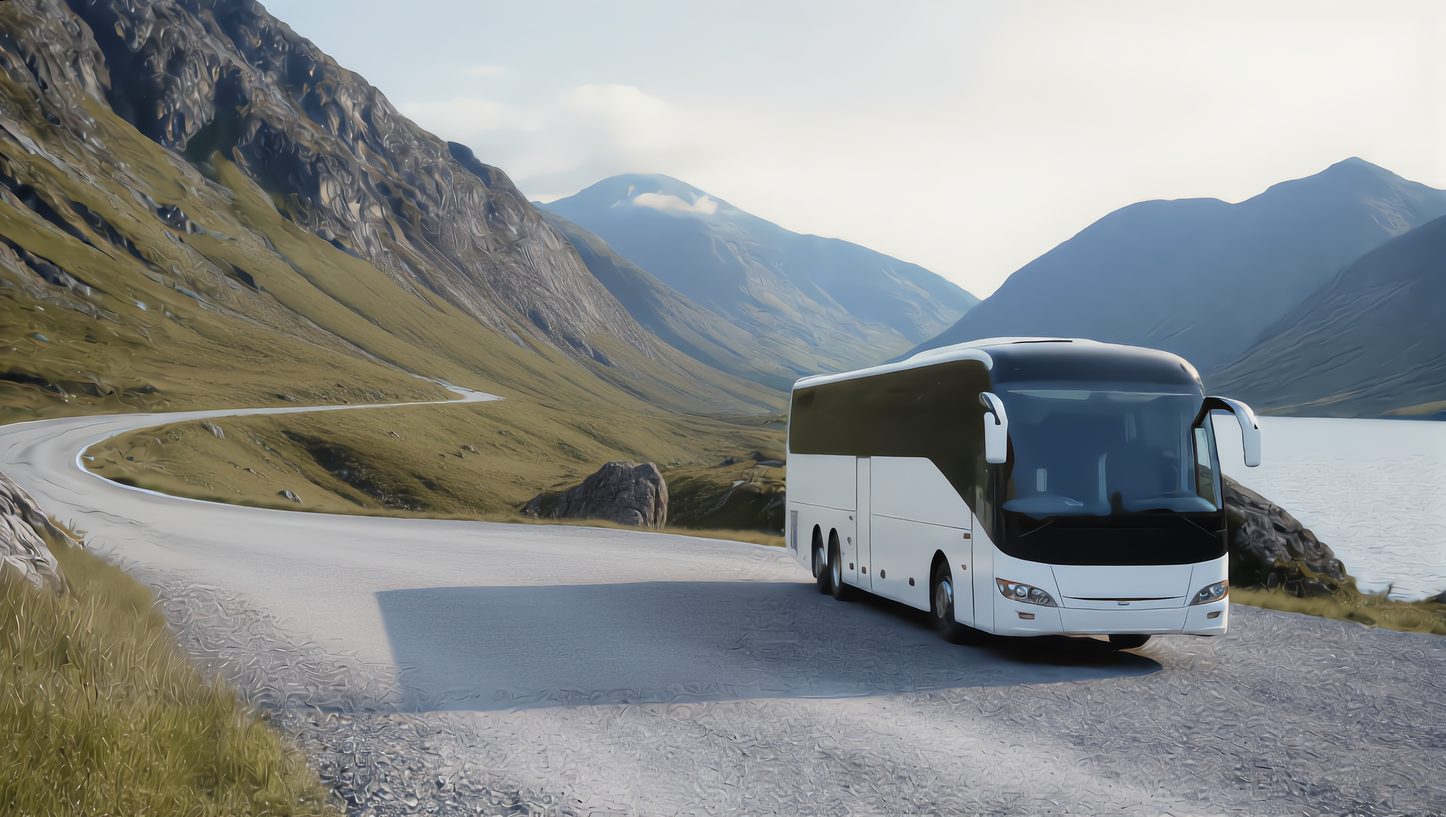
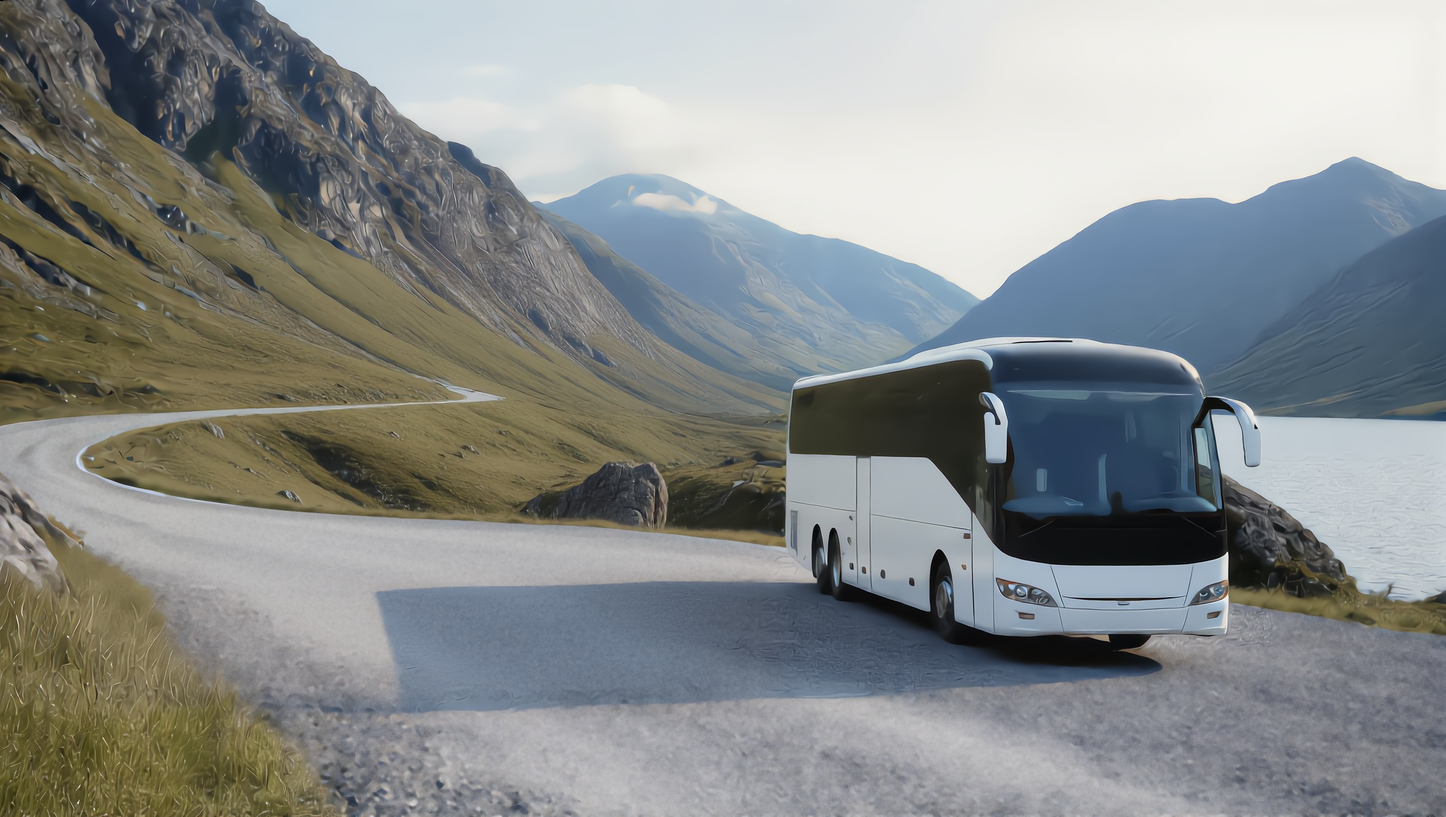
Make the road on /choose/ look natural
The AI upscale left brush-stroke swirls on the road, while the road under a
vanishing vehicle came from another render and looked smoother. Now every
layer's road gets the same treatment: median filter to remove the strokes,
then fine fixed-seed grain for a gravel look; vehicles are masked out.

The whole layer pipeline is now a script, assets-src/choose/build-layers.sh,
which rebuilds all *-updated.png (incl. the new intro-photo-updated.png) and
the WebP files from the original renders. Layers still match pixel for pixel
outside the vehicle areas.

Claude-Session: https://claude.ai/code/session_01QnLGxmMJTS6H4BxBkXsJMw

diff --git a/CLAUDE.md b/CLAUDE.md
@@ -83,13 +83,15 @@
 - Пять слоёв одного кадра (одинаковые размер и кадрирование, переключение — прозрачностью ~400 мс):
   `choose-both` (обе машины), `choose-truck`, `choose-bus` (одна машина), `choose-truck-lit`, `choose-bus-lit` (фары горят).
   Каждая в двух ширинах: `-1600.webp` и `-2720.webp` (2720 — ширина исходника, больше не растягиваем).
-- Исходники лежат в `assets-src/choose/`. ИИ перерисовывает мелкую текстуру на каждом фото — при смене слоёв кадр
-  «кипел». Поэтому все слои собраны из ОДНОГО кадра `intro-photo.png`:
-  `intro-only-truck-updated.png` / `intro-only-bus-updated.png` — общий кадр, где только область убранной машины
-  (с тенью, мягкий край) взята из `intro-only-*.png`; `*-light-updated.png` — эти слои плюс только фары и свет
-  на дороге из `*-light.png`. Вне зоны машины все слои совпадают с общим кадром до пикселя. Области масок —
-  в описании коммита «Fix flicker on /choose/». Пересобрать WebP:
-  `convert <png> -resize 1600x -quality 78 -define webp:method=6 <webp>`.
+- Исходники лежат в `assets-src/choose/` (оригиналы ИИ — без суффикса). Слои собирает скрипт
+  `bash assets-src/choose/build-layers.sh` (ImageMagick): пишет `*-updated.png` рядом с оригиналами и WebP
+  в `src/choose/img/`. Что он делает:
+  1) все слои — из ОДНОГО кадра `intro-photo.png` (ИИ перерисовывает мелкую текстуру на каждом фото, и при смене
+     слоёв кадр «кипел»): в слоях «только фура/автобус» заменена лишь область убранной машины с тенью,
+     в слоях с фарами добавлены только фары и свет на дороге;
+  2) дорога на всех слоях одинаково очищена от «мазков» ИИ-увеличения (медианный фильтр + мелкое зерно
+     с фиксированным `-seed`), машины не трогаются. Вне зон машин все слои совпадают до пикселя.
+  Поменяли фото — поправьте в скрипте области (`box`, `lit`, контур дороги, рамки машин) и запустите заново.
 - Смена слоёв без мерцания: нижний слой `choose-both` всегда непрозрачный, новый слой проявляется ПОВЕРХ текущего,
   и только потом слои под ним мгновенно прячутся (`showScene` в `choose.js`). Наверх поднимается только полностью
   скрытый слой; если слой ещё виден (быстро вернулись «туда-обратно»), вместо подъёма плавно гаснут слои над ним —
